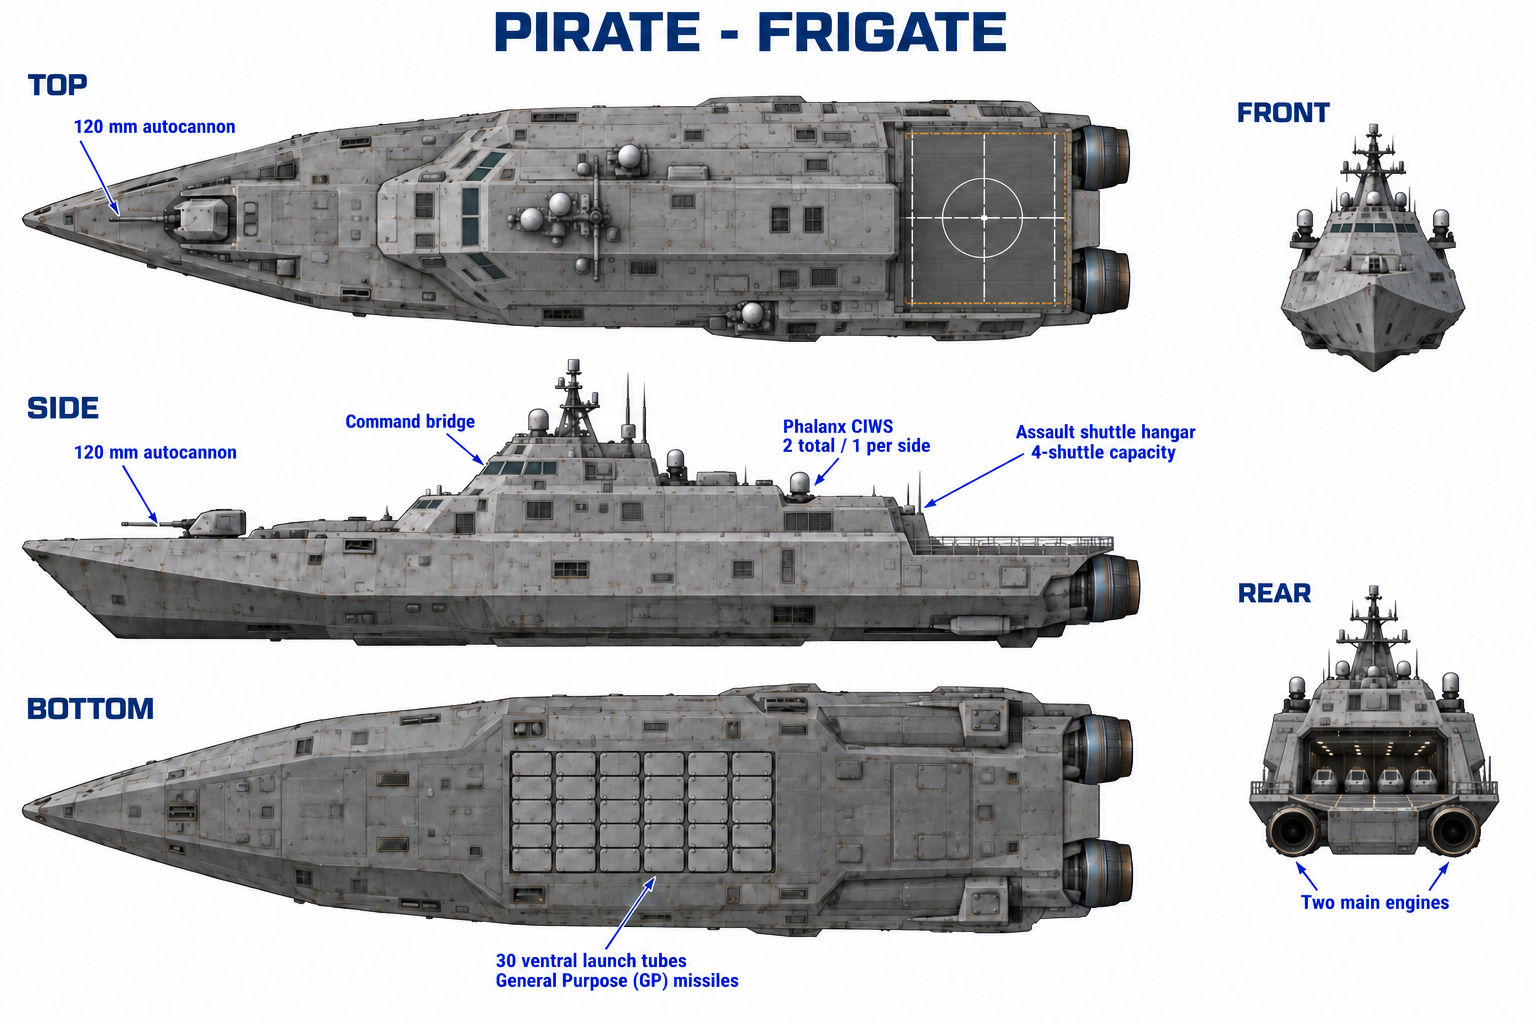
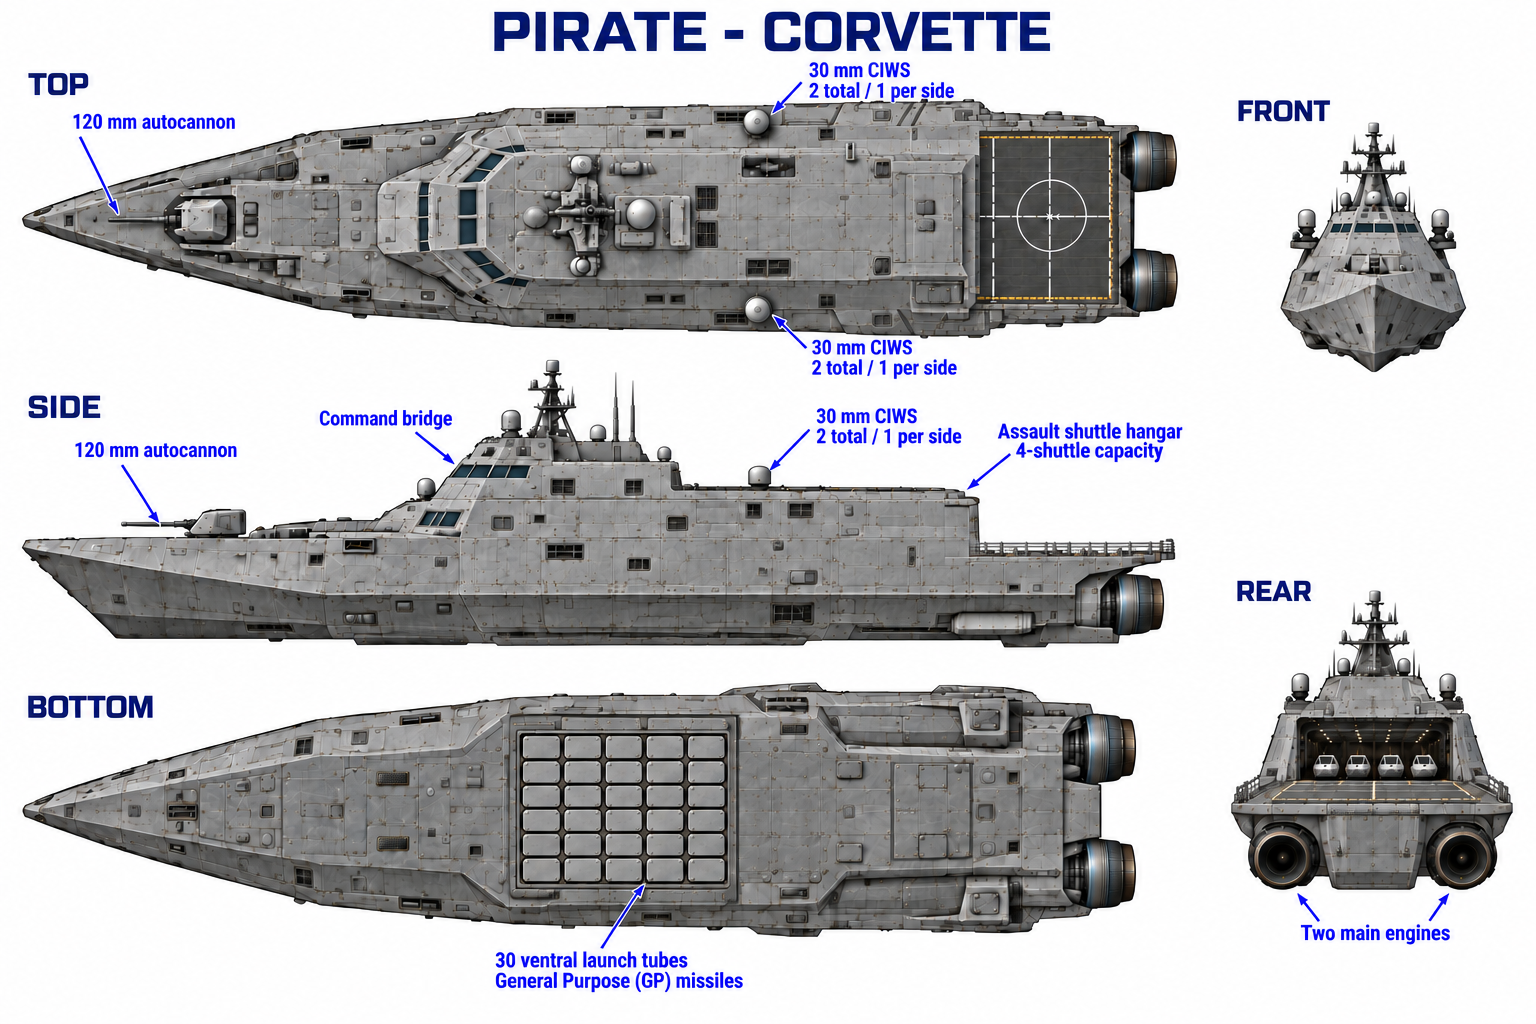
Add transport and yacht ship sheets and refine pirate corvette

diff --git a/output/imagegen/une-transport-five-view-prompt.md b/output/imagegen/une-transport-five-view-prompt.md
@@ -1,0 +1,23 @@
+# UNE transport five-view concept
+
+Mode: built-in image_gen
+
+Use case: stylized-concept. Create a FIVE-VIEW orthographic reference sheet of a fictional UNE space transport.
+Images 1 and 2 are primary ship design references: adapt the white passenger vessel's long slender hull, pointed bow, multiple stacked decks, rows of windows, forward bridge, and sweeping aft superstructure into a recognizable space transport. Images 1 and 2 show the same vessel from opposite ends. Image 3 (PIRATE - CORVETTE) is a reference ONLY for five-view layout, presentation and detailed realistic rendering, not hull shape or weapons.
+Layout: same as image 3 on clean white background, navy typography, fine blue callout arrows, title "UNE - TRANSPORT" centered. Exactly five consistent orthographic views: TOP, SIDE, BOTTOM aligned in three long rows on left with bow pointing left; FRONT above REAR on right. All are views of the same spacecraft, aligned fore and aft across views.
+Ship: primarily clean white hull and white superstructure with restrained gray panel detail, adapting the passenger vessel in the photographs into a spacegoing transport. Include a handsome fictional blue UNE (United Nations Earth) emblem on the hull side, a stylized blue Earth and laurel wreath, with clear small letters "UNE". Retain white maritime transport character and multi-deck passenger vessel silhouette.
+Equipment: exactly TWO matching main engines mounted symmetrically side by side at the stern, visible as two round exhausts in REAR view and consistent in top, side and bottom. Exactly TWO compact 30 mm CIWS turrets, one port and one starboard, placed symmetrically at the same fore-aft station just behind the bridge. In TOP view both are visible at opposite lateral edges and have the same longitudinal coordinate. In SIDE view the near-side turret appears at that exact same longitudinal coordinate as the top view. REAR or FRONT view shows both flanking the ship. These are the only weapons. No bow autocannon, no missile launch tubes.
+Labels exactly: "TOP", "SIDE", "BOTTOM", "FRONT", "REAR"; "30 mm CIWS" with "2 total / 1 per side"; "Two main engines"; "UNE". Use a limited number of neat, readable annotations and avoid overlapping lines or labels. Preserve the corvette reference's high-detail photorealistic hard surface rendering and crisp technical sheet style, but do not copy pirate skull, pirate ship, armor, hangar, or pirate weapons. No ocean or scenery, no extra spacecraft, no extra engines, no watermark.
+
+## Initial alignment edit
+
+Precise-object-edit. Correct ONLY the 30 mm CIWS position in the SIDE view of this UNE - TRANSPORT five-view sheet. The top-view pair are both at horizontal image coordinate x=725. The side-view mount is incorrectly forward at x=495. Remove that small side-view CIWS at x=495, restore the deck, and place one matching small CIWS at x=725 on the side-view deck (behind the bridge). Move its existing blue arrow endpoint to point at it. The centers of the side-view mount and the two top-view mounts must line up vertically at x=725 across the aligned views. These are the same two physical guns, one port and one starboard, not extra guns.
+Preserve everything else: five ship views, white passenger ship silhouette, exactly two stern engines, UNE emblem on side, exactly two CIWS, labels, proportions, and clean white background. No autocannon, no missiles, no other modifications.
+
+## Requested further revision (generation rejected)
+
+Use case: precise-object-edit. Edit this UNE - TRANSPORT five-view reference sheet with three coordinated corrections:
+1. Remove the tall rear smokestack/funnel completely from the SIDE view and any corresponding stack in other views. Replace it with a clean, continuous low white transport superstructure and deck appropriate to a spacecraft. Keep the recognizable long white passenger ship hull and its blue UNE globe-and-laurel emblem on the side.
+2. The SIDE view must show ONE main engine nozzle in profile at the rear: the near-side engine visually overlaps and hides its counterpart in this orthographic view. Replace the two vertically stacked side-view nozzles with a single horizontally oriented engine housing/nozzle centered at the stern. Preserve exactly TWO engines side by side in the TOP, BOTTOM and REAR views, matching the two actual engines on the craft.
+3. Fix the SIDE view "30 mm CIWS / 2 total / 1 per side" label's arrow so the arrowhead touches the actual compact 30 mm CIWS turret on the upper side deck behind the bridge, not a sensor, window or blank part of hull. The SIDE turret should align longitudinally with the two symmetrically placed port/starboard turrets in the TOP view, about x=725 in the 1536-wide layout. Reposition the side-view turret and arrow a little if needed so they align and the callout clearly points to the turret. Do not add guns.
+Preserve the five views, white ship, exact title "UNE - TRANSPORT", blue labels, two 30 mm CIWS one port and one starboard, two engines, UNE emblem, and layout. No bow gun, no missiles, no pirate gear.

diff --git a/output/imagegen/pirate-corvette-lcs17-five-view-v2-prompt.md b/output/imagegen/pirate-corvette-lcs17-five-view-v2-prompt.md
@@ -1,0 +1,16 @@
+# Pirate Corvette five-view revision
+
+Mode: built-in image_gen
+
+Use case: precise-object-edit.
+Asset type: correction of an existing FIVE-VIEW orthographic spaceship reference sheet.
+Edit target: the supplied white-background "PIRATE - CORVETTE" sheet. Keep the exact same sheet layout, five view positions, scale, white background, navy typography, realistic gray naval hard-surface rendering and ship identity.
+Primary request: fix the aft hangar and main-engine proportions consistently across all FIVE views. The existing hangar does not extend far enough aft in TOP and SIDE, the REAR hangar sits too low, and the engines are too small.
+Required coordinated geometry changes:
+1. TOP VIEW: extend the actual ENCLOSED SHUTTLE HANGAR structure all the way back toward the stern, ending just ahead of the two engine exhausts. The broad aft rectangular area that currently resembles an exposed helicopter landing deck should now read as the continuous armored ROOF of the extended hangar, with roof panels and structural seams, not an open helipad. Keep the hangar's forward edge just behind the two CIWS. The roof must visibly extend almost the entire remaining aft hull length. Only a narrow recovery threshold may remain at the stern.
+2. SIDE VIEW: show that SAME long enclosed hangar as a substantial RAISED SUPERSTRUCTURE occupying the aft third of the vessel, stretching from just behind the CIWS to nearly the stern. Raise its horizontal roof noticeably above the old low aft deck, with a believable tall sidewall and sufficient vertical space for assault shuttles. A raised long rectangular armored hangar, with subtly sloped sides compatible with LCS styling. The side view must no longer show the aft section as a long flat low flight deck.
+3. REAR VIEW: visibly ELEVATE the hangar bay floor/door sill above the main-engine centerlines, and raise its roof to create a taller, generous open hangar aperture. Clearly show exactly FOUR assault shuttles standing side by side on the elevated hangar deck inside the open bay. Preserve wide internal clearance and correct perspective-free rear projection.
+4. MAIN ENGINES: enlarge both main engines substantially, about 50-60 percent larger nozzle diameter than now, making them powerful dominant stern propulsion units. Exactly TWO, port and starboard, horizontally paired BELOW and beside the elevated hangar deck. Both large circular exhausts fully visible in REAR, with no engine covering the hangar opening or shuttles. Correspondingly enlarge the same engine housings/nozzles in TOP, SIDE and BOTTOM, maintaining consistent diameter, length and placement across views. Keep room between the two nozzles and a coherent stern support structure.
+5. FRONT: update only the rearward hangar silhouette as necessary for consistency; preserve recognizable pointed bow and forward bridge.
+Invariants: exactly five views, TOP/SIDE/BOTTOM pointing left, FRONT/REAR in right column. Same overall hull length and slender LCS-17-derived pointed hull, same forward command bridge and mast, exactly ONE 120 mm autocannon on the bow, exactly TWO 30 mm CIWS one per side immediately aft of the bridge, exactly FOUR assault shuttles, exactly TWO main engines. Preserve the BOTTOM's exact five-row by six-column grid of 30 ventral GP missile tube hatches unchanged. Preserve all existing labels verbatim, including "30 mm CIWS", "2 total / 1 per side", "Assault shuttle hangar", "4-shuttle capacity" and "Two main engines"; adjust arrow endpoints only to follow corrected components. No extra views, extra equipment, new labels or space background.
+The corrections must be clearly visible, not subtle: a longer raised enclosed aft hangar, higher rear hangar entrance, and much larger twin stern engines.

diff --git a/output/imagegen/pirate-corvette-lcs17-five-view-v3-prompt.md b/output/imagegen/pirate-corvette-lcs17-five-view-v3-prompt.md
@@ -1,0 +1,24 @@
+# Pirate Corvette five-view revision 3
+
+Mode: built-in image_gen
+
+## Reference-based revision
+
+Use case: precise-object-edit. Create a corrected FIVE VIEW spacecraft reference sheet.
+Input 1 is the user's PIRATE - FRIGATE image and is the PRIMARY geometry, proportions and layout reference. Input 2 is our existing PIRATE - CORVETTE and supplies its intended weapons, counts and label style. Closely recreate input 1: long LCS-17-derived naval ship, broad integrated superstructure extending aft into the shuttle hangar, and a short open flight deck extending aft behind the hangar above the engines; top, side, bottom, front and rear orthographic views on a white sheet in the same layout. The hangar has the same long, raised overall shape and location as input 1, with an open rear face and an aft shuttle launch/recovery deck. In the rear view the hangar is high, with four assault shuttles visible side by side, and two engines beneath.
+Make these exact changes to input 1:
+- Title is "PIRATE - CORVETTE".
+- Remove the rear-facing 120 mm autocannon mounted on top of the hangar, in every view, including its barrel and associated labels and arrows. Restore clean hangar roofing there. ONE 120 mm autocannon remains on the FORWARD BOW in front of the command bridge. There are no other large autocannons.
+- Exactly TWO 30 mm CIWS turrets, one port and one starboard, immediately aft of the command bridge, as in the top view of input 1. Label "30 mm CIWS" and "2 total / 1 per side". These are not autocannons on the hangar.
+- Exactly TWO main engines, size similar to input 1, slightly smaller than input 2, one port and one starboard. Show consistently across views, both clearly visible beneath the hangar in the rear view.
+- Exactly THIRTY general-purpose ventral missile launch tubes in the BOTTOM view, illustrated as FIVE rows of SIX distinct square covers, like input 2, total 30. Label "30 ventral launch tubes" and "General Purpose (GP) missiles". Do not copy the 40-tube array or 40-tube label in input 1.
+- Retain the four-shuttle-capacity hangar and exactly four visible small shuttles in the REAR view.
+Preserve view labels TOP, SIDE, BOTTOM, FRONT, REAR, and callouts for bow 120 mm autocannon, command bridge, assault shuttle hangar and two main engines. Keep the white background, blue type and fine arrows of the reference. Five views only; no extra weapons, no extra engines, no watermark.
+
+## CIWS placement correction
+
+Precise edit of this five-view PIRATE - CORVETTE sheet. Correct only the CIWS positions and remove the leftover rear hangar turret.
+In TOP view the bow points left and stern right. Install EXACTLY TWO small 30 mm CIWS gun mounts on opposite PORT and STARBOARD OUTER EDGES of the hull, just aft (right) of the command bridge and ahead of the hangar, symmetric across the ship centerline, like one mount on each side. Move the CIWS label leader to point to these mounts. The two small domes near the central mast can remain as sensors, but are not CIWS.
+In SIDE view show the corresponding single near-side mount just aft of the bridge.
+In REAR view remove the square gunlike fitting directly above the hangar opening in the center; replace it with plain armor. Show the same two CIWS turrets at the upper outer left and right sides.
+Do not change the bow 120 mm cannon, long raised hangar and aft flight deck, four shuttles, twin smaller engines, the five-by-six array of 30 ventral launch tubes, any labels, other details, views or the white background. No rear 120 mm cannon.

diff --git a/output/imagegen/pirate-corvette-lcs17-five-view-prompt.md b/output/imagegen/pirate-corvette-lcs17-five-view-prompt.md
@@ -1,0 +1,17 @@
+# Pirate Corvette — five-view recreation
+
+Mode: built-in image_gen
+
+Use case: stylized-concept.
+Asset type: FIVE-VIEW ORTHOGRAPHIC SPACECRAFT REFERENCE SHEET.
+Input images: Image 1 is the primary design AND layout reference: the supplied white "PIRATE - CORVETTE" five-view sheet. Image 2 and Image 3 are supporting photographs of LCS-17 for its recognizable naval hull and command-bridge form. These are references; re-create the white five-view sheet faithfully, with polished realistic hard-surface rendering and corrected equipment wording.
+Layout: clean white landscape sheet, large dark navy-blue title centered at top, EXACTLY FIVE orthographic views. Three long equal-scale views stacked in the LEFT three-quarters: TOP above SIDE above BOTTOM, all with bow pointing LEFT and stern RIGHT. Two smaller end-on views stacked in the RIGHT column: FRONT above REAR. Follow Image 1 closely in composition, proportions, spacing and readable blue annotations. No perspective beauty views, no space background.
+Ship: LCS-17-derived space pirate corvette, slender pointed monohull, faceted naval gray armor, tall forward command bridge, large aft shuttle hangar and launch/recovery deck, TWO stern propulsion engines. Same physical design consistently across all five views.
+Equipment invariants:
+1. ONE 120 mm autocannon turret on the forward deck in front of the bridge, one barrel.
+2. Exactly TWO 30 mm CIWS turrets, one port and one starboard, matching symmetric positions immediately AFT OF THE COMMAND BRIDGE. They are aft along the hull, ahead of the hangar. In top view the two mounts appear at opposite lateral sides; in side view only the near-side mount need be visible. Never put CIWS forward of the bridge.
+3. The helicopter hangar is converted into a FOUR-assault-shuttle hangar. REAR view shows its open door and exactly four individual assault shuttles parked side by side. The other views show the same hangar geometry and aft apron.
+4. Exactly TWO main engines at the stern, port and starboard. REAR shows exactly two circular exhausts, one each side below the hangar entrance. Top/bottom show these same two nozzles.
+5. Exactly THIRTY ventral GP missile launch tubes on the BOTTOM only. In the BOTTOM orthographic view, display a fully visible rectangular matrix of armored square tube hatches arranged EXACTLY FIVE ROWS by SIX COLUMNS = 30 hatches, matching the primary reference's bottom view. Six columns run along ship length; five rows run across its width. Draw all 30 hatches distinctly and evenly. No tubes on top.
+Text: title "PIRATE - CORVETTE"; view labels "TOP", "SIDE", "BOTTOM", "FRONT", "REAR". Blue callouts with thin arrow leaders, use exactly: "120 mm autocannon"; "Command bridge"; "30 mm CIWS" followed by "2 total / 1 per side"; "Assault shuttle hangar" followed by "4-shuttle capacity"; "30 ventral launch tubes" followed by "General Purpose (GP) missiles"; "Two main engines". Do not copy "Phalanx" from the reference. All lettering clear and spelled correctly.
+Constraints: closely re-create the supplied five-view reference, technical presentation rather than cinematic scene. Exactly five views, no sixth view, no extra weapon mounts, no extra engines or shuttles, no watermark, no unrelated text. Preserve LCS-17 identity, avoid generic winged spacecraft. Fully fit every view and all annotations in frame.

diff --git a/output/imagegen/pirate-corvette-lcs17-five-view-v4-prompt.md b/output/imagegen/pirate-corvette-lcs17-five-view-v4-prompt.md
@@ -1,0 +1,10 @@
+# CIWS alignment revision
+
+Mode: built-in image_gen
+
+Use case: precise-object-edit. Edit the attached five-view PIRATE - CORVETTE sheet to correct one orthographic inconsistency. The TOP and SIDE ships have the same scale and horizontal alignment, bow to the left. In SIDE view the 30 mm CIWS mount is at horizontal image position approximately x=703, directly at the aft edge of the bridge where the long hangar roof begins. In TOP view the two CIWS are currently too far forward at approximately x=600. Move BOTH TOP-view CIWS mounts aft (to the right) by about 100 pixels to approximately x=703. Put them symmetrically at the port and starboard outer edges, BOTH at precisely the same x position. Their vertical projection on the sheet must line up exactly with the existing side-view CIWS at x=703. The paired mounts represent exactly two weapons total, one on each side. Relocate their blue callout leader lines to point at the moved mounts; keep labels legible and no overlapping text. Restore plain armor at their former x=600 positions. Keep the SIDE CIWS in its current location, immediately aft of the bridge.
+Preserve the same five views and every other aspect of the ship and sheet: one bow 120 mm autocannon, no gun on the hangar, four assault shuttles, raised hangar and short aft flight deck, two main engines, exact 30 launch tube hatches in the bottom 5 by 6 array, title, other labels and white background. Do not add weapons or move other structures.
+
+## Final alignment
+
+Precisely edit only the SIDE view of this reference sheet. Move the small 30 mm CIWS turret and its label leader endpoint 22 pixels to the RIGHT along the horizontal hangar roof, from x=734 to x=756 on the 1536-pixel-wide sheet. Its center must align vertically with both top-view CIWS mount centers, which are at x=756. Restore plain roof at the old turret location. Do not move the TOP-view CIWS or alter anything else in any view, the ship, the other weapons, the hangar, four shuttles, 30 tubes, engines, text, layout, or background.

diff --git a/output/imagegen/pirate-corvette-lcs17-five-view-v5-prompt.md b/output/imagegen/pirate-corvette-lcs17-five-view-v5-prompt.md
@@ -1,0 +1,7 @@
+# Pirate Corvette visual cleanup
+
+Mode: built-in image_gen
+
+Use case: precise-object-edit / style-transfer.
+Input 1 is the CORVETTE image to edit, and is the sole reference for ship design, exact equipment and layout. Input 2 is the FRIGATE image, a visual-finish reference only. Clean up Input 1 to have the crisp detailed visual look of Input 2: sharp in-focus lines, clearly defined clean steel-gray armor plating, fine rivets and panel seams, crisp windows, realistic mechanical detail, consistent subtle weathering, clean white background and dark navy labels and arrows. Restore detail and clarity lost to repeated edits while retaining the realistic rendering style of the frigate. Keep the existing five orthographic views and their placement precisely: TOP, SIDE, BOTTOM, FRONT, REAR. Preserve the existing geometry, component positions and exact configuration from Input 1; do not borrow additional equipment or quantities from Input 2.
+Critical invariants: Top-view pair of 30 mm CIWS one per side must align with the side-view CIWS at the same fore-aft position (about x=756 in this sheet); both mounts immediately aft of the bridge. Exactly one 120 mm autocannon on the bow; NO additional gun on hangar roof. Exactly 30 ventral GP missile tube hatches in five columns by six rows in BOTTOM view; four shuttles in raised aft hangar, with aft flight deck; exactly two engines. Labels must be sharp and spelled as Input 1, title "PIRATE - CORVETTE". Do not introduce FRIGATE title, 40 tube count, extra rear autocannon, extra turrets or unrelated changes.

diff --git a/output/imagegen/une-transport-ciws-labels-prompt.md b/output/imagegen/une-transport-ciws-labels-prompt.md
@@ -1,0 +1,5 @@
+# UNE Transport label revision
+
+Mode: built-in image_gen
+
+Use case: text-localization. Edit only two text labels in this UNE - TRANSPORT concept sheet. In the TOP view and SIDE view, replace the exact text "30 mm CIWS" with "CIWS". Keep the line "2 total / 1 per side" below each label. Match the existing blue font and lettering size. Preserve all ship artwork, arrows, other text, five-view layout and background unchanged.
